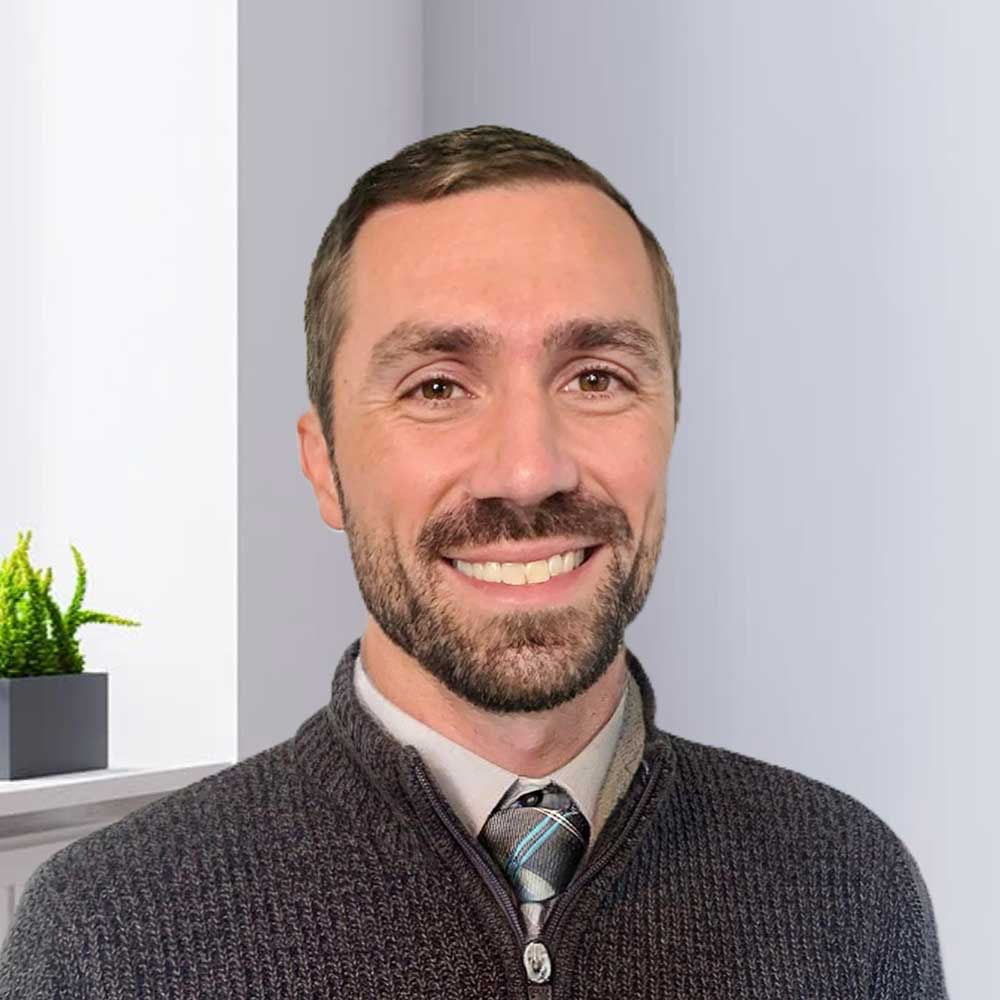
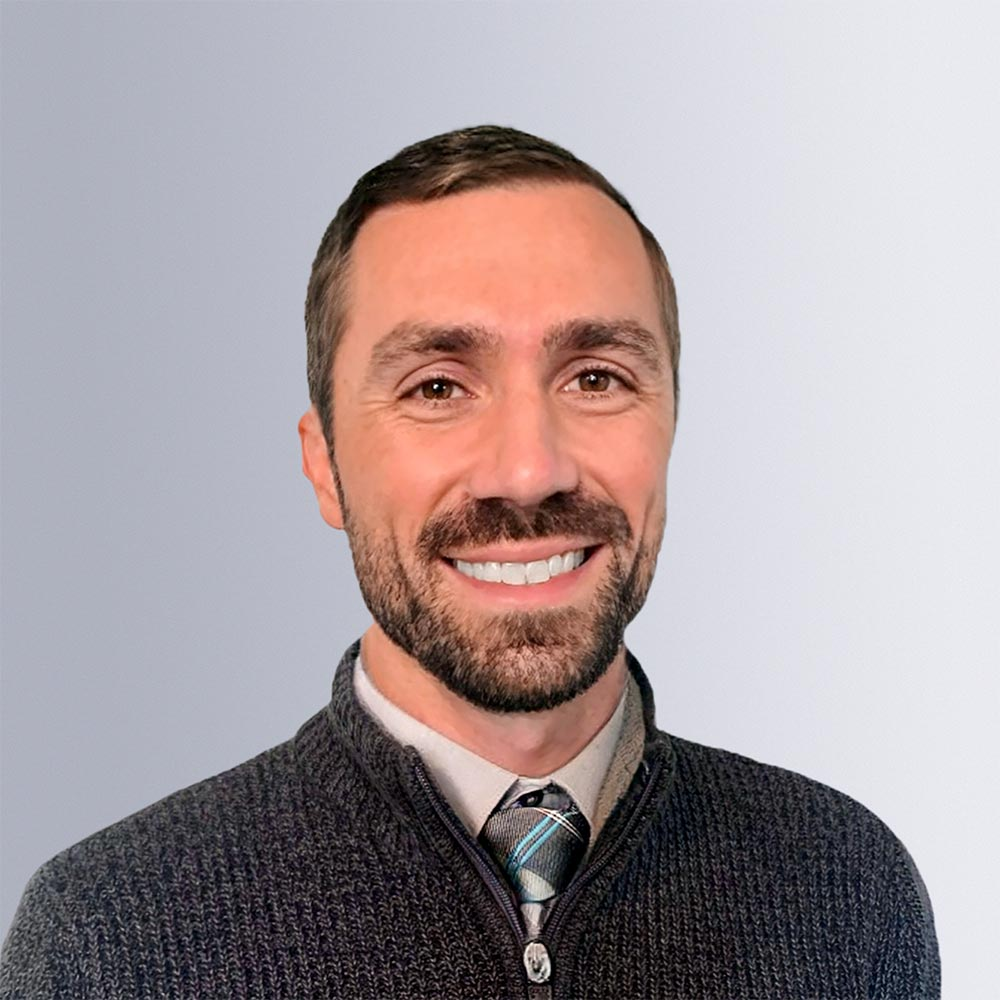
Update images

diff --git a/src/app/routes/home/home.component.html b/src/app/routes/home/home.component.html
@@ -29,7 +29,7 @@
     </div>
   </div>
   <!---->
-  <div class="bg bg-lightgray mb-5">
+  <div class="bg bg-lightgray">
     <div class="container">
       <!-- Services -->
       <div class="row">
@@ -89,9 +89,41 @@
       </div>
     </div>
   </div>
-  <!---->
-  <hr />
-  <!-- Segmentation -->
+  <!-- END -->
+  <!-- Your Agent -->
+  <div class="bg">
+    <div class="container">
+      <div class="row">
+        <div class="col col-12 col-md-4">
+          <img src="/assets/images/dylan-jones-portrait-500.jpg" class="w-100 circle" alt="Dylan Jones" />
+        </div>
+        <div class="col col-12 col-md-8">
+          <div class="ps-3">
+            <p>Your Agent</p>
+            <h2>Dylan Jones</h2>
+            <p>As a financial coach with a background in emergency services, Dylan brings a unique perspective to the table.</p>
+            <p>
+              Based in East Tennessee, Dylan helps individuals and families navigate their finances and make informed decisions. He understands the importance
+              of being prepared for the unexpected and the value of having a solid financial plan in place.
+            </p>
+            <p>
+              Dylan believes in taking a personalized approach to each individual financial situation. Whether you're looking to build a savings plan, pay off
+              debt, or protect your family with insurance, he's ready to help.
+            </p>
+            <ul>
+              <li>15 years experience in law enforcement and EMS</li>
+              <li>Certified Ramsey Solutions Financial Coach</li>
+              <li>Senior Associate with Capital Choice Financial Group</li>
+              <li>Life and Health Insurance licensed in TN and MS</li>
+            </ul>
+          </div>
+        </div>
+      </div>
+    </div>
+  </div>
+  <!--END -->
+
+  <!-- Segmentation
   <div class="row">
     <div class="col col-12 col-md-6">
       <h2>Families</h2>
@@ -99,7 +131,7 @@
     <div class="col col-12 col-md-4">
       <h2>First Responders</h2>
     </div>
-  </div>
+  </div>-->
   <!---->
   <hr />
   <!-- Schedule -->
@@ -109,13 +141,7 @@
   </div>
   <!---->
   <hr />
-  <!-- Your Agent -->
-  <div class="row">
-    <p>Your Agent</p>
-    <h2>Dylan Jones</h2>
-    <div class="col col-12 col-md-12"></div>
-  </div>
-  <!---->
+
   <hr />
   <!-- Testimonials -->
   <div class="row">

diff --git a/src/index.html b/src/index.html
@@ -16,6 +16,17 @@
     <link rel="apple-touch-icon" sizes="180x180" href="assets/icons/apple-icon-180x180.png" />
     -->
     <link rel="manifest" href="manifest.webmanifest" />
+    <link
+      rel="preload"
+      as="style"
+      href="https://fonts.googleapis.com/css?family=Lato:400,700%7COpen%20Sans:400,700%7CMontserrat:400,700%7CPlus%20Jakarta%20Sans:400,700%7CRoboto:400,700&display=swap"
+    />
+    <link
+      rel="stylesheet"
+      href="https://fonts.googleapis.com/css?family=Lato:400,700%7COpen%20Sans:400,700%7CMontserrat:400,700%7CPlus%20Jakarta%20Sans:400,700%7CRoboto:400,700&display=swap"
+      media="print"
+      onload="this.media='all'"
+    />
   </head>
   <body>
     <!--[if (IE 7)|(IE 8)|(IE 9)]>

diff --git a/src/app/routes/home/home.component.scss b/src/app/routes/home/home.component.scss
@@ -35,9 +35,17 @@
   min-height: 235px;
 }
 
-img.rounded {
-  border-radius: 5px;
+img {
+  box-shadow: 0 2px 5px 0 rgba(0, 0, 0, 0.16), 0 2px 10px 0 rgba(0, 0, 0, 0.12);
+  &.circle {
+    border-radius: 50%;
+  }
+
+  img.rounded {
+    border-radius: 5px;
+  }
 }
+
 .card {
   border: 0;
   box-shadow: 0 2px 5px 0 rgba(0, 0, 0, 0.16), 0 2px 10px 0 rgba(0, 0, 0, 0.12);

diff --git a/src/styles/ui/_typography.scss b/src/styles/ui/_typography.scss
@@ -3,6 +3,7 @@
 html,
 body {
   font-size: 16px;
+  font-family: 'Plus Jakarta Sans', Verdana, sans-serif;
 }
 
 h1,
@@ -17,7 +18,7 @@ h5,
 .h5 {
   font-weight: 400;
   margin-bottom: 0.75rem;
-  font-family: 'Proxima N W01 Xbold', Verdana, sans-serif;
+  font-family: 'Plus Jakarta Sans', Verdana, sans-serif;
   small {
     font-size: 70%;
   }
